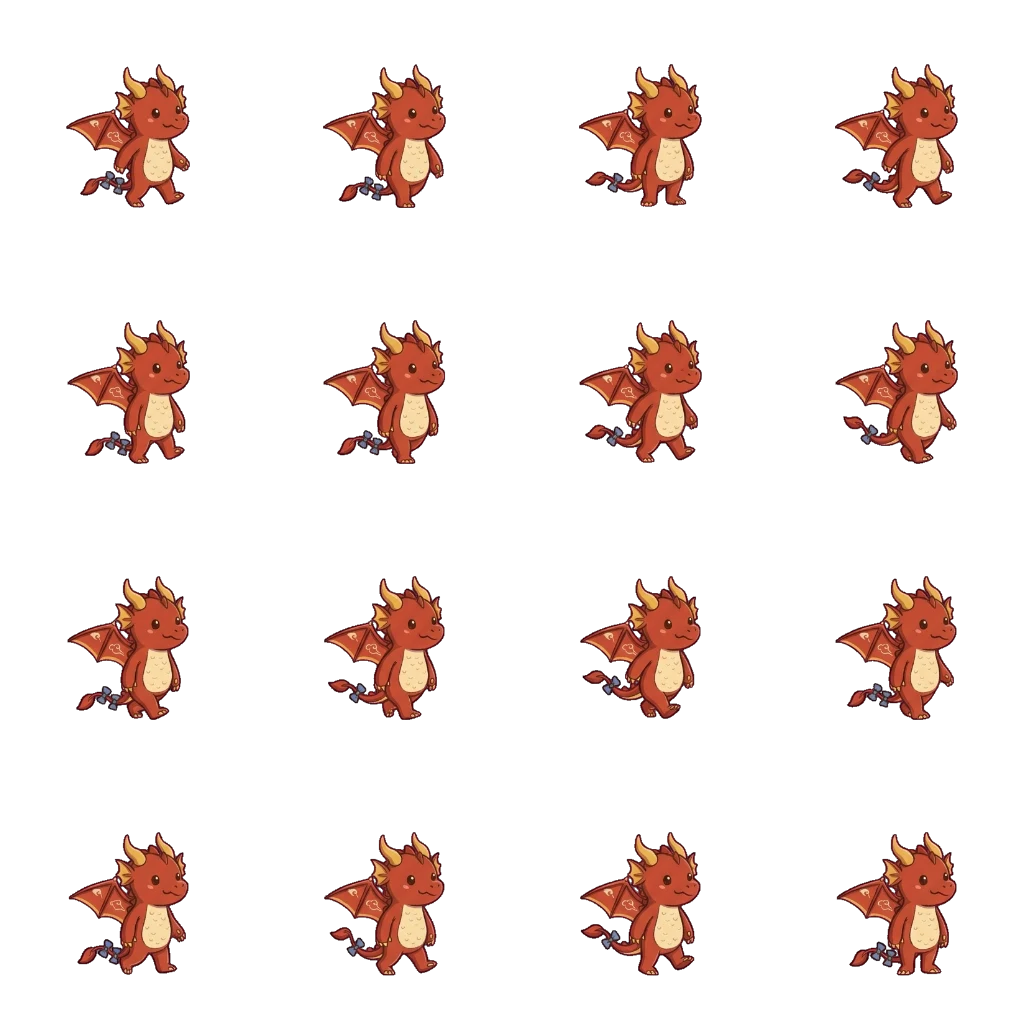
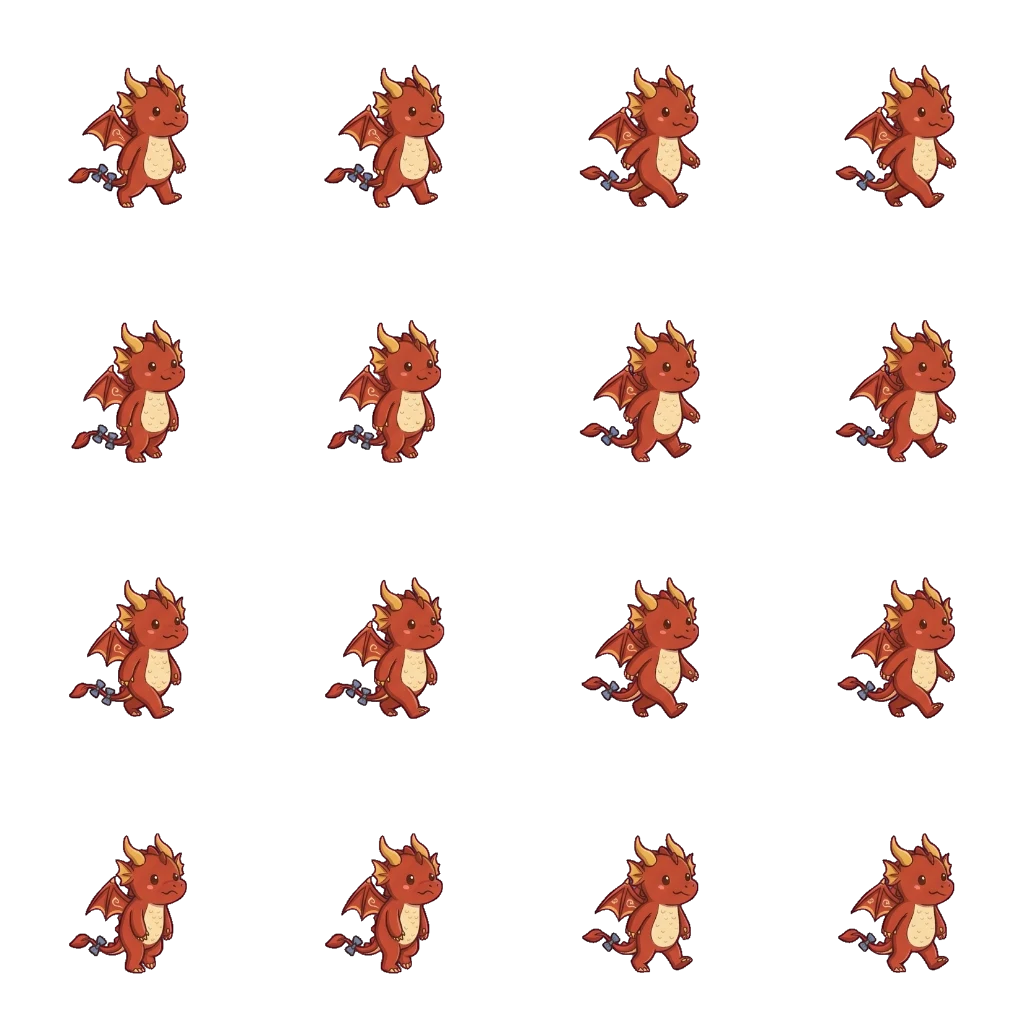
Dragon kite walk cycle repainted over a proper walk-cycle guide (revision 19)
Claude-Session: https://claude.ai/code/session_01DaNtQ5A9gBrvWEUzWsAmPA

diff --git a/changelog.md b/changelog.md
@@ -1,7 +1,7 @@
 Umbrella — changelog (newest first)
 
 == Revision 19 — 2026-11-21 ==
-- [x] The kite skin is now a baby dragon ("Drachen" is both a kite and a dragon): a chubby ember-red dragon with cream belly, gold horns and blue ribbon bows, painted in the game's crayon finish — walk, idle, hover, fall, terminal fall, broken umbrella, cheer, flattened, destroyed, front view, the platforms (plain, finish, switch), Walldorf (body and face), mines, fan, checkpoint flag, button and spikes, and the wind wisps. Chad's kite art is unchanged. Idle breathing keeps the body size within 1.5 % (it no longer swells and shrinks)
+- [x] The kite skin is now a baby dragon ("Drachen" is both a kite and a dragon): a chubby ember-red dragon with cream belly, gold horns and blue ribbon bows, painted in the game's crayon finish — walk, idle, hover, fall, terminal fall, broken umbrella, cheer, flattened, destroyed, front view, the platforms (plain, finish, switch), Walldorf (body and face), mines, fan, checkpoint flag, button and spikes, and the wind wisps. Chad's kite art is unchanged. Idle breathing keeps the body size within 1.5 % (it no longer swells and shrinks), and the walk was repainted over a proper walk-cycle guide (contact, down, passing, up) so the feet step like a real walk
 - [x] The dragon kite is selectable in the cheat mode's Art dropdown (Drawn / Origami: Lantern / Dragon Kite) and, like the lantern, is the normal game in a skin: same campaign, levels server, community, feel and save, so the level editor lists the same levels and My Levels as the normal game (the separate kite save that hid them is gone). Pages builds also publish /umbrella/kite/ and the current revision's /kite/
 - [x] The 100 kite levels, the kite-only feel and their solver recordings are removed. In their place the dragon skin opens with a new first chapter, "Dragon Flight": five short onboarding levels (First Breeze, Open and Close, The Long Stream, Bounce Back, Castle Run), each teaching one idea and all proven beatable by the bot on the real engine; edits to them in the editor stay in the browser
 - [x] The loading screens' text (the static splash and the "Umbrella" title with its stuck-hint) can no longer be selected with the mouse or given a text cursor.
